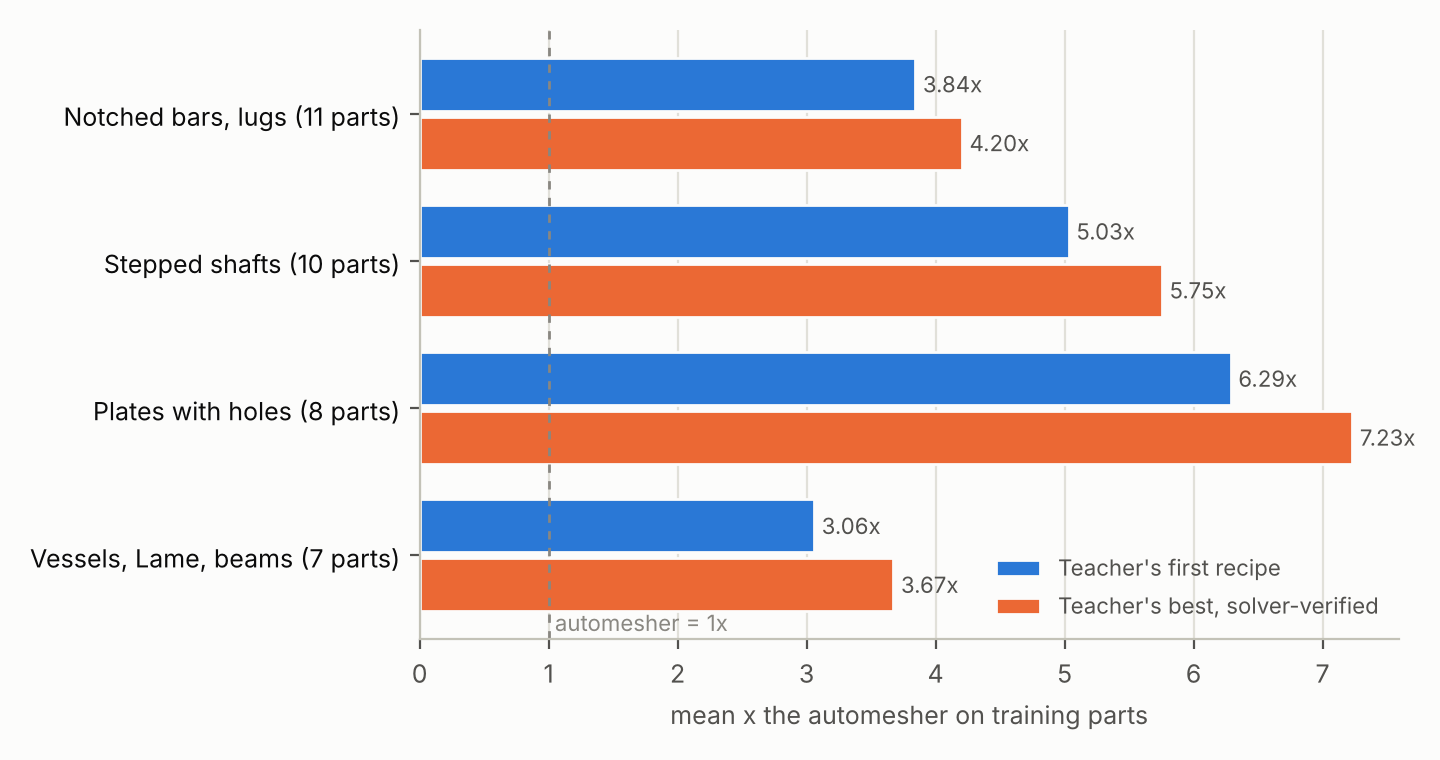
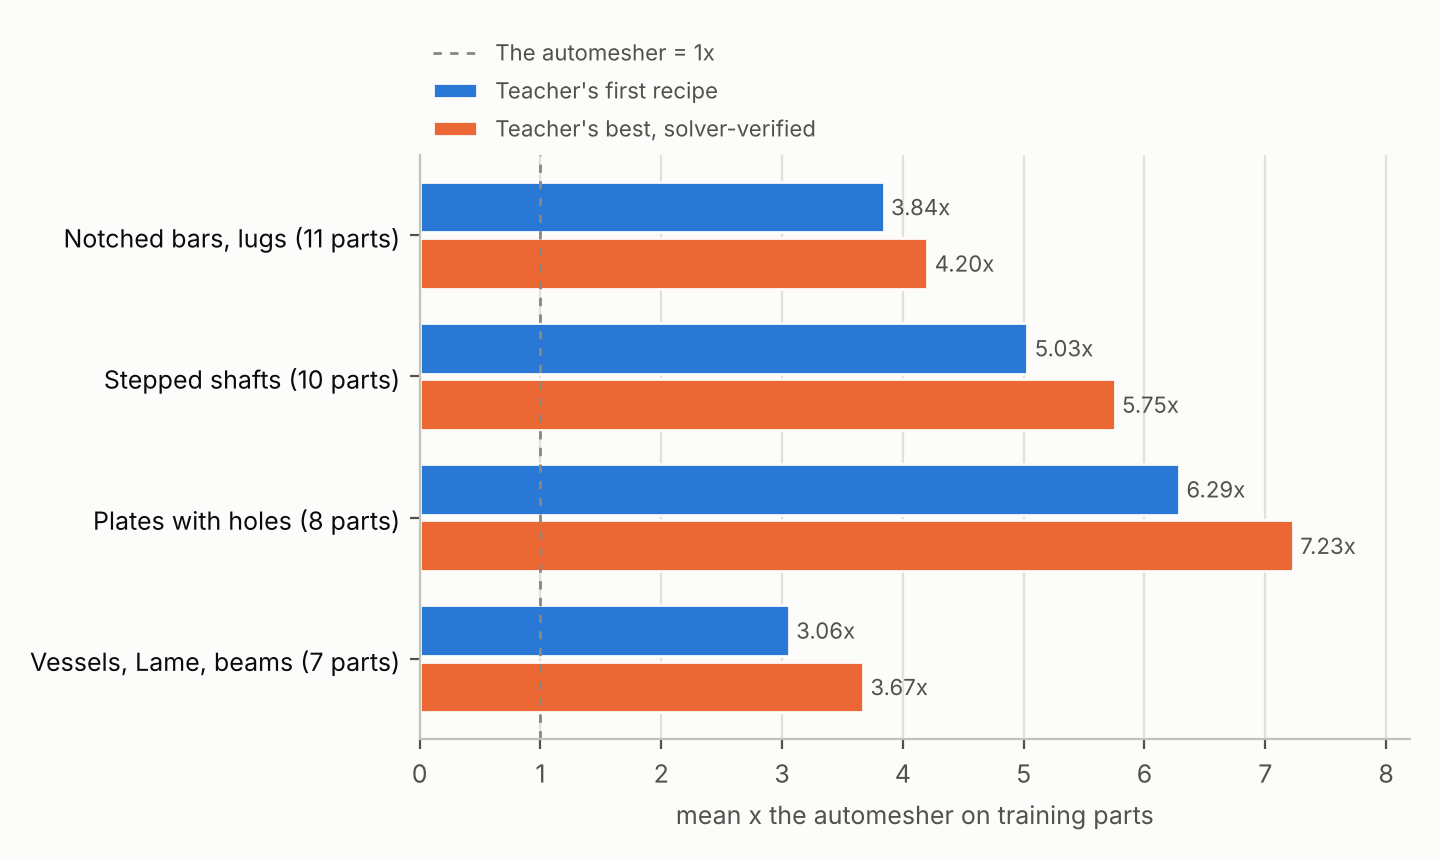
wsp: blind Opus zero-shot on the held-out set; prompt roles from the problem's setup; held-out figures
Opus 5.5, single shot with no feedback, on the 26 held-out benchmarks: 3.82x the automesher
(in-family 4.00x, out-of-family 2.87x), beating it on every part; the train-tuned rule gets
3.39x (out-of-family 0.81x). The student prompt now takes curve roles and clamp / load ends
from the problem's own setup instead of ace.geometry_info's text heuristic (which called the
Kirsch hole loaded and the axis of revolution a support end), and gives the smallest radius
of curvature of ellipses and splines (NAFEMS LE1's point D). Figures: method means, per-part
scores, held-out meshes against the automesher (PNGs palette-quantized).

Claude-Session: https://claude.ai/code/session_01UubxiPftWpggyDtDN5oQ3E

diff --git a/wsp/task.py b/wsp/task.py
@@ -82,11 +82,38 @@ def geometry(pid: str) -> Geometry:
     diag = math.dist(lo, hi)
     scale = diag / UNITS
     floor = diag / (100.0 if dim == 3 else 400.0)          # = ace.fea._size_floor
+    for tag, (rmin, at) in _min_curvature_radius(p, [int(c["tag"]) for c in g["curves"]
+                                                     if c["type"] not in ("Line", "Circle")]).items():
+        cur = next(c for c in g["curves"] if int(c["tag"]) == tag)
+        cur["min_radius"], cur["min_radius_at"] = rmin, at
     return Geometry(pid=pid, dim=dim, origin=lo + [0.0] * (3 - dim), scale=scale,
                     size_u=[(h - l) / scale for l, h in zip(lo, hi)],
                     curves={int(c["tag"]): c for c in g["curves"]},
                     corners={int(k["tag"]): k for k in g["corners"]},
                     groups=[gr["name"] for gr in g["groups"]], floor_u=floor / scale, raw=g)
+
+
+def _min_curvature_radius(problem, tags: list[int], n: int = 400) -> dict[int, tuple[float, list[float]]]:
+    """{curve tag: (smallest radius of curvature, the point where it occurs)} for curved non-circular CAD
+    curves (ellipses, B-splines): where a curved boundary concentrates stress, e.g. point D of NAFEMS LE1."""
+    if not tags:
+        return {}
+    import gmsh
+    import numpy as np
+
+    from feacore.geometry.gmsh_tools import gmsh_session
+    out = {}
+    with gmsh_session(problem.id):
+        problem.build_geometry()
+        for t in tags:
+            lo, hi = gmsh.model.getParametrizationBounds(1, t)
+            u = np.linspace(lo[0], hi[0], n)
+            k = np.abs(np.asarray(gmsh.model.getCurvature(1, t, u.tolist())))
+            if not len(k) or not np.isfinite(k).any() or k.max() <= 0:
+                continue
+            i = int(np.nanargmax(k))
+            out[t] = (float(1.0 / k[i]), list(np.asarray(gmsh.model.getValue(1, t, [float(u[i])]))[:3]))
+    return out
 
 
 def _n(x: float) -> str:
@@ -98,13 +125,43 @@ def _n(x: float) -> str:
     return f"{x:.2g}" if x < 1 else f"{x:.1f}".rstrip("0").rstrip(".")
 
 
+def bc_roles(pid: str) -> dict[str, str]:
+    """{group: role} from the problem's own setup, which the statement spells out in words: "clamped",
+    "symmetry", "roller", "prescribed displacement" (an exact field, smooth), "loaded". The text heuristic
+    in ace.geometry_info guesses roles from the statement and can get them wrong (it called the Kirsch
+    plate's traction-free hole "load" and the axis of an axisymmetric sphere a support end); a small
+    student cannot tell a wrong label, so its prompt uses these."""
+    from ace import fea
+    from ace.checks import reference_setup
+    roles: dict[str, str] = {}
+    for b in reference_setup(fea.get_problem(pid))["bcs"]:
+        g = b.get("group")
+        if not g or b.get("point") is not None:          # a point constraint only removes rigid-body motion
+            continue
+        t, comps, v = b.get("type"), b.get("components") or [], b.get("value")
+        vals = v if isinstance(v, list) else [v]
+        if t == "fixed" or (t == "displacement" and len(comps) >= 2
+                            and all(isinstance(x, (int, float)) and x == 0 for x in vals)):
+            r = "clamped"
+        elif t == "displacement":
+            r = "prescribed displacement" if len(comps) >= 2 else "roller"
+        elif t == "symmetry":
+            r = "symmetry"
+        elif t in ("force", "traction", "pressure"):
+            r = "loaded"
+        else:
+            r = str(t)
+        roles[g] = r if g not in roles or roles[g] == r else f"{roles[g]}, {r}"
+    return roles
+
+
 def geometry_text(geo: Geometry) -> str:
+    from ace import fea
     g = geo.raw
     reent = set(g.get("reentrant_corners") or [])
     sharp = set(g.get("sharp_corners") or [])
-    sup = set(g.get("support_boundary") or [])
-    load = set(g.get("load_boundary") or [])
-    from ace import fea
+    roles = bc_roles(geo.pid)
+    curve_role = {tag: roles.get(c.get("group") or "") for tag, c in geo.curves.items()}
     unit = "m" if "SI" in (fea.get_problem(geo.pid).units or "") else "length units"
     lines = [f"PART GEOMETRY. Lengths in u, where 1 u = {geo.scale:.4g} {unit} (the part diagonal is 1000 u); "
              f"coordinates are measured from the lower-left corner of the bounding box.",
@@ -114,25 +171,27 @@ def geometry_text(geo: Geometry) -> str:
         bits = [f"  c{tag} {c['type']}", f"length {_n(geo.u(c['length']))}"]
         if c.get("radius"):
             bits.append(f"radius {_n(geo.u(c['radius']))}")
+        elif c.get("min_radius"):
+            bits.append(f"smallest radius of curvature {_n(geo.u(c['min_radius']))} at ("
+                        + ", ".join(_n(v) for v in geo.xy_u(c["min_radius_at"])) + ")")
         if c.get("centroid"):
             bits.append("near (" + ", ".join(_n(v) for v in geo.xy_u(c["centroid"])) + ")")
-        tail = []
-        if c.get("group"):
-            tail.append(f"group {c['group']}")
-        if c.get("role") and c["role"] != "free":
-            tail.append(c["role"])
+        tail = [f"group {c['group']}"] if c.get("group") else []
+        if curve_role[tag]:
+            tail.append(curve_role[tag])
         lines.append(", ".join(bits) + (f" [{'; '.join(tail)}]" if tail else ""))
     notable = []
     for tag, k in sorted(geo.corners.items()):
+        adj = [curve_role.get(int(str(x).lstrip("c"))) for x in k.get("curves") or []]
         flags = []
         if tag in reent or k.get("concave"):
             flags.append(f"RE-ENTRANT {k['interior_angle_deg']:.0f} deg (stress singularity)")
         elif tag in sharp:
             flags.append(f"acute {k['interior_angle_deg']:.0f} deg")
-        if tag in sup:
-            flags.append("support end")
-        if tag in load:
-            flags.append("load end")
+        if "clamped" in adj and any(r != "clamped" for r in adj):
+            flags.append("clamp end (singular)")
+        if "loaded" in adj and None in adj:      # a load meeting a free edge: a traction jump (against a
+            flags.append("load end")            # symmetry edge the load is mirrored, and the field is smooth)
         if flags:
             notable.append(f"  k{tag} at (" + ", ".join(_n(v) for v in geo.xy_u(k["point"])) + "): " + "; ".join(flags))
     other = len(geo.corners) - len(notable)
@@ -141,10 +200,8 @@ def geometry_text(geo: Geometry) -> str:
         lines += notable
         if other:
             lines.append(f"  ({other} other corners: smooth or convex, not singular)")
-        if any(t in sup for t in geo.corners):
-            lines.append("  A support end is singular only where a clamp (both directions fixed) meets a free edge; the "
-                         "ends of symmetry, roller, axis or exactly prescribed supports are smooth. A load end is a "
-                         "traction jump: milder and local.")
+        lines.append("  A clamp end, where a clamped edge meets an unclamped one, is singular; a load end is a traction "
+                     "jump, milder and local. The ends of symmetry, roller and prescribed-displacement edges are smooth.")
     else:
         lines.append(f"Notable corners: none ({other} corners, all smooth or convex, not singular).")
     sf = g.get("smallest_features") or {}

diff --git a/wsp/report.py b/wsp/report.py
@@ -40,11 +40,11 @@ def fig_methods(evals: list[tuple[str, dict]], out: Path) -> Path:
     matplotlib.use("Agg")
     import matplotlib.pyplot as plt
     names = [n for n, _ in evals]
-    fig, ax = plt.subplots(figsize=(7.2, 0.55 * len(names) + 1.4), dpi=200)
+    fig, ax = plt.subplots(figsize=(7.2, 0.55 * len(names) + 1.9), dpi=200)
     fig.patch.set_facecolor(SURFACE)
     _style(ax)
-    groups = [("in_family", "In-family parts (new sizes of trained families)", SERIES[0]),
-              ("out_of_family", "Out-of-family parts (Cook's, LE1, LE11, L-bracket)", SERIES[1])]
+    groups = [("in_family", "In-family: new sizes of the training families (22 parts)", SERIES[0]),
+              ("out_of_family", "Out-of-family: Cook's, LE1, LE11, L-bracket (4 parts)", SERIES[1])]
     hgt = 0.36
     for gi, (g, label, color) in enumerate(groups):
         ys = [i + (gi - 0.5) * (hgt + 0.04) for i in range(len(names))]
@@ -52,12 +52,13 @@ def fig_methods(evals: list[tuple[str, dict]], out: Path) -> Path:
         ax.barh(ys, vals, height=hgt, color=color, label=label, edgecolor=SURFACE, linewidth=1)
         for y, v in zip(ys, vals):
             ax.text(v + 0.05, y, f"{v:.2f}x", va="center", ha="left", fontsize=8, color=INK2)
-    ax.axvline(1.0, color=MUTED, linewidth=1, linestyle=(0, (3, 3)))
-    ax.text(1.0, len(names) - 0.45, " automesher = 1x", color=MUTED, fontsize=8, va="bottom")
+    ax.axvline(1.0, color=MUTED, linewidth=1, linestyle=(0, (3, 3)), label="The automesher = 1x")
     ax.set_yticks(range(len(names)), names, color=INK, fontsize=9)
     ax.invert_yaxis()
+    ax.set_xlim(0, max(1.2, ax.get_xlim()[1] * 1.08))
     ax.set_xlabel("mean score on held-out benchmarks, x the automesher (higher is better)", color=INK2, fontsize=9)
-    ax.legend(frameon=False, fontsize=8, loc="lower right", labelcolor=INK2)
+    ax.legend(frameon=False, fontsize=8, loc="lower left", bbox_to_anchor=(0, 1.0), ncol=1, labelcolor=INK2,
+              borderaxespad=0.2)
     fig.tight_layout()
     p = out / "fig_methods.png"
     fig.savefig(p, facecolor=SURFACE)
@@ -85,14 +86,16 @@ def fig_per_problem(evals: list[tuple[str, list[dict]]], out: Path) -> Path:
         for r in rows:
             by.setdefault(r["pid"], []).append(r["x_auto"])
         xs = [sum(by.get(p, [0])) / max(1, len(by.get(p, [0]))) for p in pids]
-        ax.scatter(xs, range(len(pids)), s=26, color=SERIES[k], label=name, zorder=3 + k, edgecolor=SURFACE,
-                   linewidth=1.2)
+        dy = (k - (len(evals) - 1) / 2) * 0.22          # each method on its own line within a part's row
+        ax.scatter(xs, [i + dy for i in range(len(pids))], s=26, color=SERIES[k], label=name, zorder=3 + k,
+                   edgecolor=SURFACE, linewidth=1.2)
     ax.axvline(1.0, color=MUTED, linewidth=1, linestyle=(0, (3, 3)))
     ax.set_yticks(range(len(pids)), pids, fontsize=7, color=INK)
     ax.invert_yaxis()
     ax.grid(axis="y", color=GRID, linewidth=0.5)
     ax.set_xlabel("x the automesher (0 = invalid answer; dashed line = automesher)", color=INK2, fontsize=9)
-    ax.legend(frameon=False, fontsize=8, loc="lower right", labelcolor=INK2)
+    ax.legend(frameon=False, fontsize=8, loc="lower left", bbox_to_anchor=(0, 1.0), ncol=len(evals),
+              labelcolor=INK2, borderaxespad=0.2)
     fig.tight_layout()
     p = out / "fig_per_problem.png"
     fig.savefig(p, facecolor=SURFACE)
@@ -284,7 +287,7 @@ def fig_teacher(demo_dir: str | Path, out: Path) -> Path:
     import matplotlib.pyplot as plt
     rows = teacher_stats(demo_dir)
     groups = [g for g, _ in FAMILY_GROUPS if any(r["group"] == g for r in rows)]
-    fig, ax = plt.subplots(figsize=(7.2, 0.6 * len(groups) + 1.4), dpi=200)
+    fig, ax = plt.subplots(figsize=(7.2, 0.6 * len(groups) + 1.9), dpi=200)
     fig.patch.set_facecolor(SURFACE)
     _style(ax)
     hgt = 0.36
@@ -294,13 +297,14 @@ def fig_teacher(demo_dir: str | Path, out: Path) -> Path:
         ax.barh(ys, vals, height=hgt, color=SERIES[k], label=label, edgecolor=SURFACE, linewidth=1)
         for y, v in zip(ys, vals):
             ax.text(v + 0.06, y, f"{v:.2f}x", va="center", fontsize=8, color=INK2)
-    ax.axvline(1.0, color=MUTED, linewidth=1, linestyle=(0, (3, 3)))
-    ax.text(1.0, len(groups) - 0.45, " automesher = 1x", color=MUTED, fontsize=8, va="bottom")
+    ax.axvline(1.0, color=MUTED, linewidth=1, linestyle=(0, (3, 3)), label="The automesher = 1x")
     counts = {g: sum(r["group"] == g for r in rows) for g in groups}
     ax.set_yticks(range(len(groups)), [f"{g} ({counts[g]} parts)" for g in groups], fontsize=9, color=INK)
     ax.invert_yaxis()
+    ax.set_xlim(0, ax.get_xlim()[1] * 1.08)
     ax.set_xlabel("mean x the automesher on training parts", color=INK2, fontsize=9)
-    ax.legend(frameon=False, fontsize=8, loc="lower right", labelcolor=INK2)
+    ax.legend(frameon=False, fontsize=8, loc="lower left", bbox_to_anchor=(0, 1.0), ncol=1, labelcolor=INK2,
+              borderaxespad=0.2)
     fig.tight_layout()
     p = out / "fig_teacher.png"
     fig.savefig(p, facecolor=SURFACE)

diff --git a/wsp/README.md b/wsp/README.md
@@ -16,7 +16,7 @@ Methods, on one shared harness:
 | RFT | one round of rejection sampling: the student's own samples, kept when the solver scores them well | `wsp/rft.py` |
 | best-of-k + ZZ | k samples, the one with the smallest reference-free ZZ error x DOFs is kept | `wsp/evaluate.py --select-zz` |
 | heuristic | a hand-written rule built from the teacher's lessons (no model) | `wsp/heuristic.py` |
-| teacher zero-shot | Opus 5.5 itself, single shot from the same prompt, no feedback | `wsp_runs/opus_zeroshot/` |
+| teacher zero-shot | Opus 5.5 itself, single shot from the same prompt, no feedback | `wsp/results/opus_zeroshot_recipes.jsonl` |
 
 ## Weight-space programming, in one paragraph
 
@@ -49,12 +49,16 @@ One prompt in, one JSON recipe out, the way the swarm agents call `mesh(h, order
 {"order": 2, "h": 60, "refinements": [{"curve": 3, "size": 3, "radius": 50}, {"corner": 4, "size": 2.5, "radius": 80}]}
 ```
 
-- The prompt (`python -m wsp.task prompt <pid>`) is the problem statement, the part's curves and notable
-  corners (re-entrant, acute, ends of supports and loads), the automesher's error and DOFs, the score
-  formula and the answer format.
+- The prompt (`python -m wsp.task prompt <pid>`) is the problem statement; the part's curves (type,
+  length, radius, or the smallest radius of curvature of an ellipse or spline and where it is, and the
+  curve's role: clamped, symmetry, roller, prescribed displacement or loaded); its notable corners
+  (re-entrant, acute, clamp ends, load ends); the automesher's error and DOFs; the score formula; and the
+  answer format. Roles come from the problem's own setup, which the statement spells out in words, not
+  from the text heuristic the swarm's `inspect_geometry` uses (a teacher found that one calling a
+  traction-free hole "loaded" and an axis of revolution a support end).
 - **Lengths are in u = part diagonal / 1000**, from the bounding-box corner, so every part looks the same
-  size to the model: h is about 20-100 u, a notch root about 1-5 u. A sub-1B model learns that far more
-  easily than raw sizes from 0.0005 m to 4 (Cook's membrane).
+  size to the model: the teachers' recipes use h of about 25-400 u and feature sizes of 2.5-15 u. A sub-1B
+  model learns that far more easily than raw sizes from 0.0005 m to 4 (Cook's membrane).
 - Refinements name a corner or curve by its tag, so the model never copies coordinates.
 - The harness meshes the recipe, solves it with the correct setup (the statement spells the setup out;
   meshing is the skill under test) and scores it. An invalid answer (no JSON, unknown tag, over the node
@@ -110,7 +114,42 @@ the cantilever's bending-depth cliff (0.66x) and leaves Cook's clamped corners u
 Those are context-dependent calls that the teacher's recipes contain and a fixed rule cannot. They are
 what the student has to learn.
 
-ZEROSHOT_PLACEHOLDER
+**The teacher itself, blind, single shot, on the held-out benchmarks.** A separate Opus 5.5 agent read
+each held-out part's prompt and wrote one recipe with no scoring, meshing or solving: the reference a
+single-shot student is chasing (26 recipes, about 0.21M tokens).
+
+![Mean score per method on the held-out benchmarks](results/fig_methods.png)
+
+| on the 26 held-out benchmarks | in-family (22) | out-of-family (4) | all | beats the automesher |
+|---|---|---|---|---|
+| heuristic (rule from the lessons, train-tuned) | 3.86x | 0.81x | 3.39x | 19 of 26 |
+| **Opus 5.5 zero-shot, blind** | **4.00x** | **2.87x** | **3.82x** | **26 of 26** |
+
+The two fail in opposite ways (per part: `results/fig_per_problem.png`, `results/results.md`):
+- **The blind teacher is never bad** (at least 1.7x on every part, 2.9x out-of-family) but, without
+  feedback, it over-refines: it drives several errors to 0.1-0.3 %, below the 0.5 % floor where extra DOFs
+  earn nothing (plate d01: 0.12 % error, 3.7x, against 8.6x for the rule).
+- **The rule is well calibrated where its constants fit** (5.7-8.6x on the notched bars and small holes)
+  and collapses where they do not.
+
+The teacher's search-calibrated recipes (5.20x on the training parts) have both strengths, and they are
+what the student is distilled from. A distilled student should land between the two references
+out-of-family and can beat both in-family. The zero-shot agent read an earlier prompt whose curve and
+corner roles came from a text heuristic (it noted that it ignored the wrong ones). The prompt now takes
+those roles from the problem's own setup and gives the radius of curvature of ellipses and splines (see
+"The task"), so its 3.82x is if anything conservative.
+
+Held-out meshes, each against the automesher (top: the whole part; bottom: the boxed region, where the
+last mesh refined most):
+
+| | |
+|---|---|
+| ![](results/fig_mesh_cooks_membrane.png) | ![](results/fig_mesh_nafems_le1.png) |
+| Cook's membrane. The rule leaves the singular clamped corners coarse (0.93x); the teacher grades into them (2.86x). | NAFEMS LE1. The rule meshes the membrane with a few elements (54.6 % error); the teacher refines the inner ellipse, where point D sits (3.77x). |
+| ![](results/fig_mesh_lbracket_reentrant.png) | ![](results/fig_mesh_timoshenko_cantilever.png) |
+| L-bracket. Both refine the re-entrant corner; only the teacher also refines the clamped edge's ends (1.71x). Its reference is good to about 2 %, so scores saturate early here. | Timoshenko cantilever. A uniform mesh with at least four quadratic elements through the depth (the teacher, 5.08x) against the rule's two (0.66x). |
+
+The training parts' meshes (the teacher's first recipe against its best) are in `results/fig_mesh_train_*.png`.
 
 **What the student costs on this machine** (`python -m wsp.bench`: the real architectures with random
 weights, since latency depends on shapes, not values; 4 Xeon cores, fp32, a 1000-token prompt and a
@@ -164,6 +203,9 @@ Methods worth adding, most useful first:
    from its description. Probably overkill at this data size.
 
 ## Run it
+
+The model comes from huggingface.co, which must be reachable: in a Claude Code cloud environment, allow
+it under the environment's network access settings (or run on the team's Brev box).
 
 ```bash
 pip install -e ".[ace,wsp]"

diff --git a/wsp/results/results.md b/wsp/results/results.md
@@ -1,0 +1,33 @@
+| method | all | in-family | out-of-family | valid | beats automesher |
+|---|---|---|---|---|---|
+| Heuristic (rule from the lessons) | 3.39x | 3.86x | 0.81x | 100% | 73% |
+| Opus 5.5 zero-shot (blind) | 3.82x | 4.00x | 2.86x | 100% | 100% |
+
+| part | Heuristic (rule from the lessons) | Opus 5.5 zero-shot (blind) |
+|---|---|---|
+| clevis_lug_2d_D20 | 3.21 | 2.72 |
+| clevis_lug_2d_D28 | 3.22 | 2.36 |
+| cooks_membrane | 0.93 | 2.86 |
+| kirsch_exact_traction | 5.81 | 4.75 |
+| lame_cylinder_plane_strain | 0.08 | 1.75 |
+| lame_sphere_axisym | 0.08 | 2.65 |
+| lbracket_reentrant | 0.80 | 1.71 |
+| nafems_le1 | 0.03 | 3.77 |
+| nafems_le11_axisym | 1.49 | 3.12 |
+| notched_bar_t10_r2 | 3.15 | 3.21 |
+| notched_bar_t10_r4 | 3.37 | 3.26 |
+| notched_bar_t5_r2 | 5.65 | 3.76 |
+| notched_bar_t5_r4 | 5.93 | 4.33 |
+| plate_hole_finite_width_d01 | 8.60 | 3.72 |
+| plate_hole_finite_width_d03 | 6.26 | 6.15 |
+| plate_hole_finite_width_d05 | 0.76 | 5.23 |
+| pressure_vessel_axi_equal | 1.10 | 1.94 |
+| pressure_vessel_axi_thin_head | 3.00 | 4.00 |
+| stepped_shaft_axi_Dd1p5_rd0p05 | 4.10 | 3.83 |
+| stepped_shaft_axi_Dd1p5_rd0p1 | 5.04 | 3.90 |
+| stepped_shaft_axi_Dd1p5_rd0p2 | 4.21 | 3.49 |
+| stepped_shaft_axi_Dd2_rd0p05 | 5.67 | 5.69 |
+| stepped_shaft_axi_Dd2_rd0p1 | 4.90 | 5.14 |
+| stepped_shaft_axi_Dd2_rd0p2 | 3.60 | 4.05 |
+| stepped_shaft_axi_Dd2_sharp | 6.58 | 6.96 |
+| timoshenko_cantilever | 0.66 | 5.08 |
